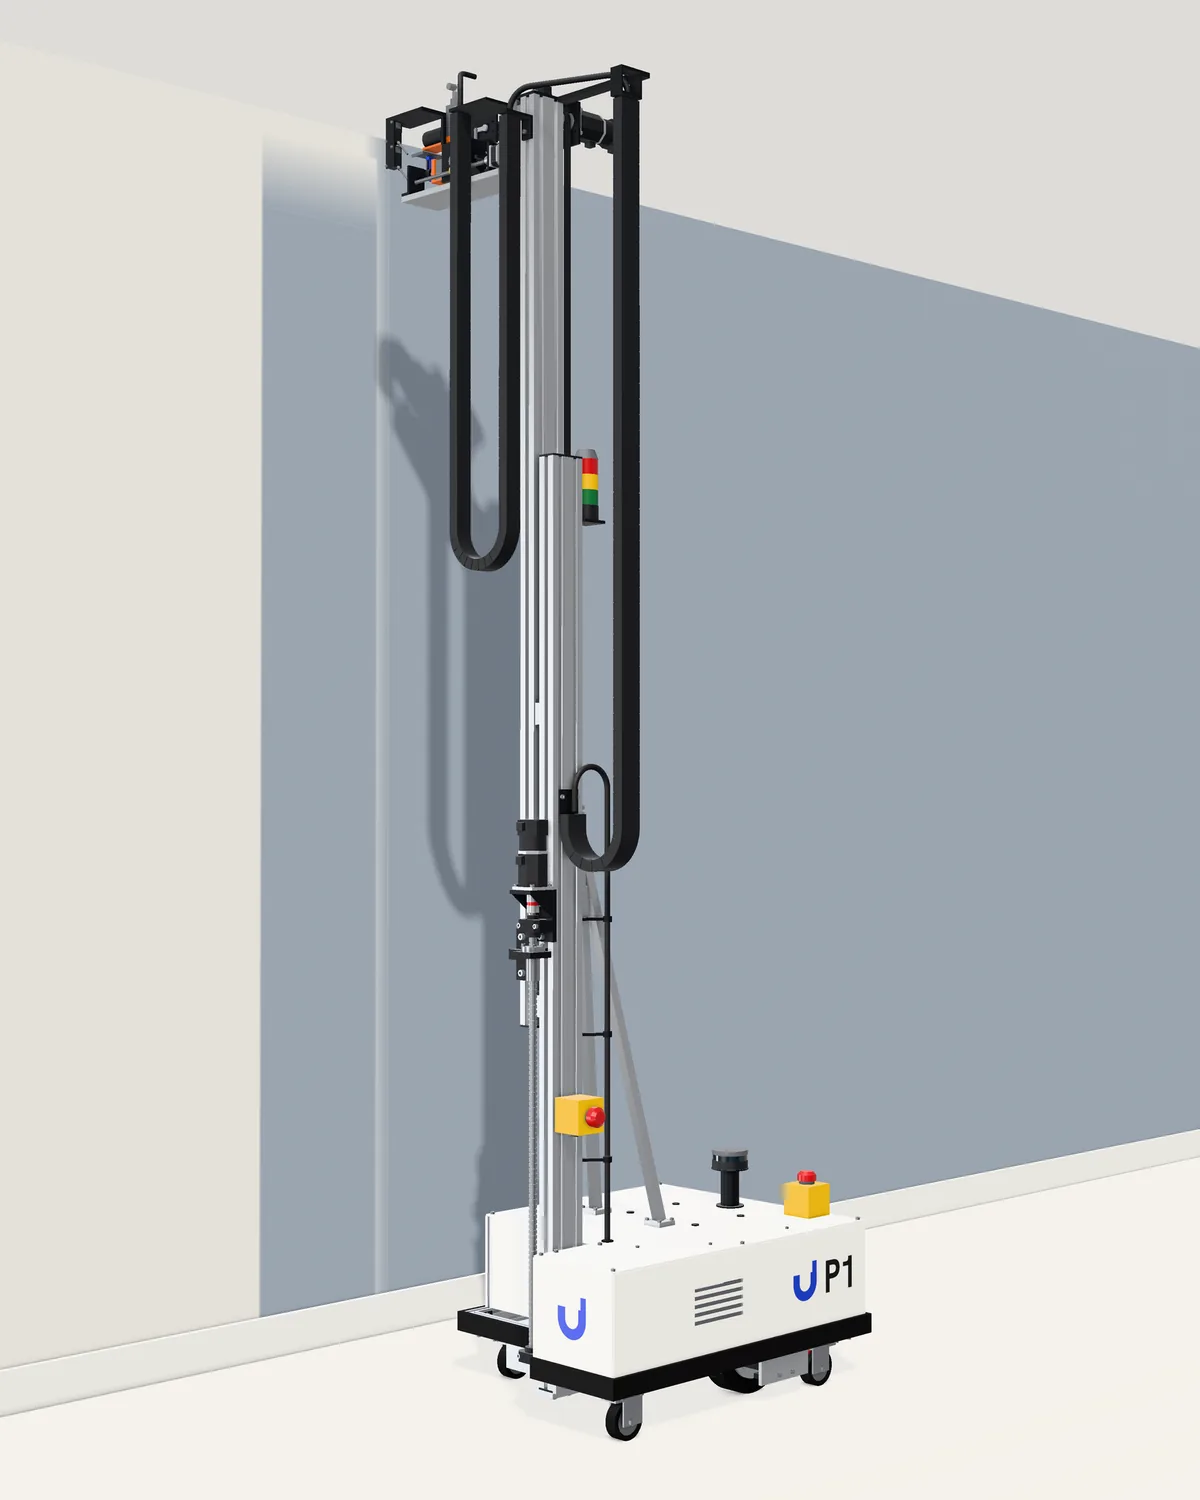
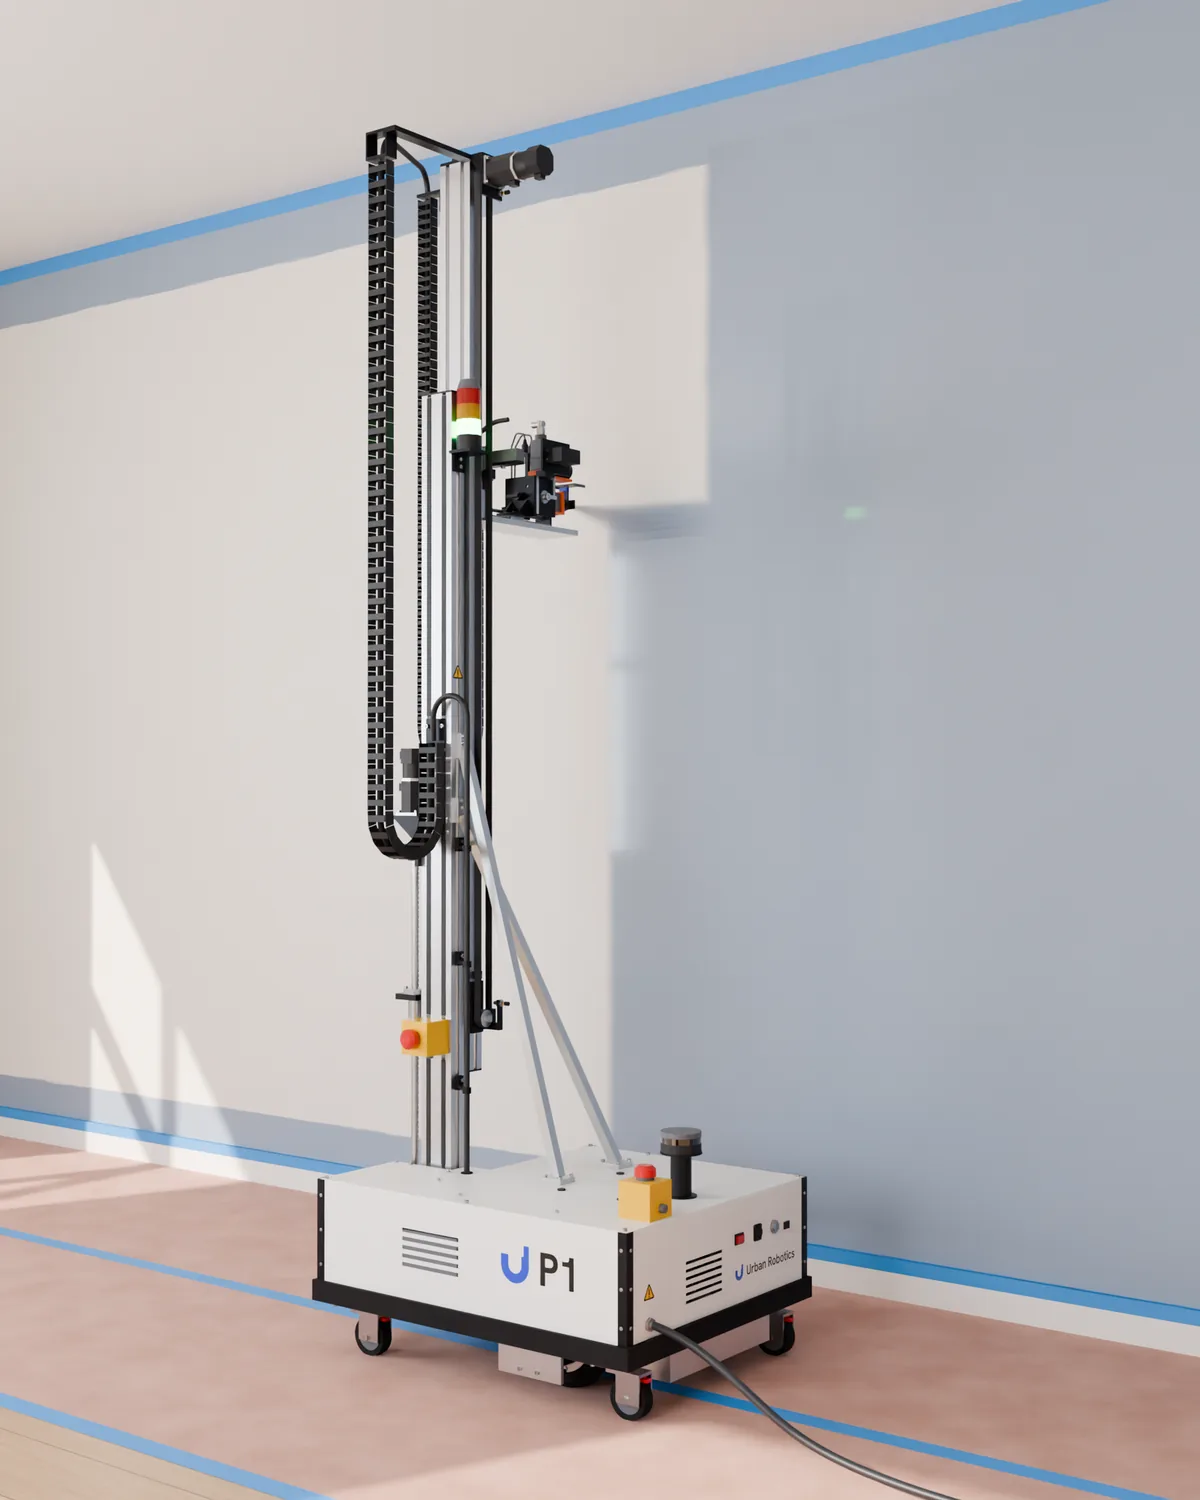
Use the photoreal P1 rendering for the hero and social image

diff --git a/index.html b/index.html
@@ -57,7 +57,7 @@
       </div>
     </div>
     <figure>
-      <img class="shot" src="assets/img/p1_hero_wall_1600.webp" srcset="assets/img/p1_hero_wall_800.webp 800w, assets/img/p1_hero_wall_1200.webp 1200w, assets/img/p1_hero_wall_1600.webp 1600w" sizes="(min-width: 1200px) 600px, (min-width: 900px) 52vw, 100vw" width="1600" height="2000" alt="CAD rendering of the P1 robot at full height beside a wall, its spray head near the ceiling and fresh paint on part of the wall." fetchpriority="high">
+      <img class="shot" src="assets/img/p1_hero_wall_1600.webp" srcset="assets/img/p1_hero_wall_800.webp 800w, assets/img/p1_hero_wall_1200.webp 1200w, assets/img/p1_hero_wall_1600.webp 1600w" sizes="(min-width: 1200px) 600px, (min-width: 900px) 52vw, 100vw" width="1600" height="2000" alt="CAD rendering of P1 with its mast raised beside a wall, half of the wall freshly painted, in an empty room with paper taped over the floor." fetchpriority="high">
       <figcaption>CAD rendering. Paint shown for illustration.</figcaption>
     </figure>
   </section>
